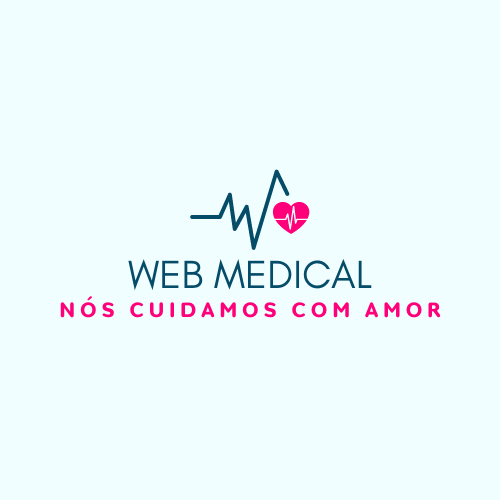
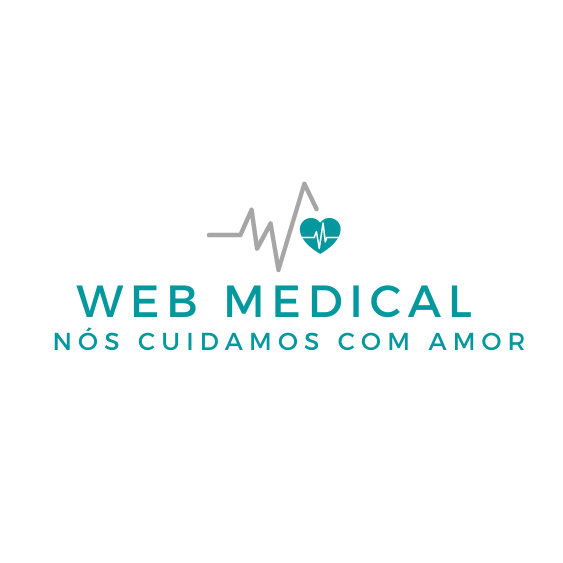
style(navbar):Mudança no style e sidebar

Changed region(s): [[0.09, 0.33, 0.93, 0.66]]

diff --git a/lib/style/style.css b/lib/style/style.css
@@ -3,14 +3,12 @@
   }
 
   body{
+    font-family: "Roboto", sans-serif;
+    font-weight: 400;
+    font-style: normal;
     margin: 0;
-    font-family: sans-serif;
-    background-color: #3480f1;
-    color: #fff;
-  }
-
-  .border{
-    border: 1px solid red;
+    background-color: #f1feff;
+    color: #161616;
   }
 
   .sidebar{
@@ -22,7 +20,7 @@
     width: 240px;
     height: 100%;
     padding: 40px 10px 30px 10px;
-    border-right: 1px solid #2f3336;
+    
 
   }
 
@@ -32,17 +30,17 @@
   }
 
   .logo-img{
-    width: 70px;
-    max-height: 70px;
-    border-radius: 50%;
+    width: 210px;
+    height: 100px;
+    border-radius: 0%;
     object-fit: cover;
-    transition: transform 0.4s;
-    margin-left: 15px;
-    margin-top: -10px;
+    /* transition: transform 0.4s; */
+    margin-left: center;
+    padding-top: 10px;
   }
 
   .logo-img:hover{
-    transform: scale(1.5);
+    transform: scale(1.2);
   }
 
  .sidebar ul{
@@ -58,10 +56,16 @@
   
  .sidebar ul a{
   text-decoration: none;
-  color: #fff;
-  font-size: 16px;
+  color: #161616;
+  font-size: 18px;
   padding: 10px;
   margin-bottom: 10px;
+ }
+
+ .sidebar ul a:hover{
+  color: rebeccapurple;
+  text-decoration: underline;
+  transform: scale(1.2);
  }
 
  .sidebar ul > li{
@@ -96,7 +100,7 @@
  .footer {
   margin-left: 250px;
 	background-color: inherit;
-	color: #fff;
+	color: inherit;
 	padding: 20px;
 	text-align: center;
 	margin-top: 300px;
@@ -115,6 +119,7 @@
 }
 
 .footer ul li a {
-	color: #fff;
-	text-decoration: none;
+	color: inherit;
+  text-decoration: underline;
 }
+

diff --git a/lib/main.html b/lib/main.html
@@ -15,7 +15,7 @@
         </header>
         <nav>
             <ul>
-                <li><a href="./clinica.html"> A Clinica</a></li>
+                <li><a href="./clinica.html"> A Cliníca</a></li>
                 <li><a href="./especialidades.html"> Especialidades</a></li>
                 <li><a href="./especialistas.html">Nosso Time</a></li>
                 <li><a href="./contato.html"> Contato</a></li>
